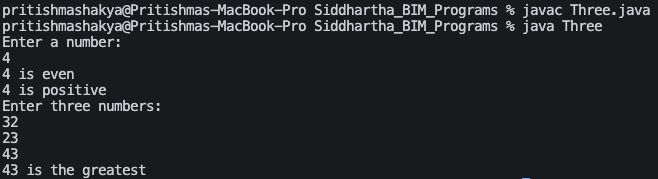
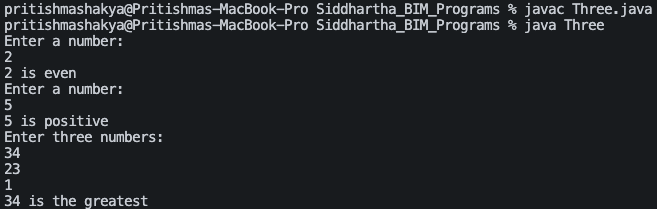
Update

Changed region(s): [[0.0, 0.0, 1.0, 1.0], [0.7915, 0.9777, 0.8219, 1.0]]

diff --git a/BIM(2nd Sem)/Java/Lab_Report_2/Siddhartha_BIM_Programs/Seven.java b/BIM(2nd Sem)/Java/Lab_Report_2/Siddhartha_BIM_Programs/Seven.java
@@ -1,0 +1,32 @@
+// WAP to calculate sum, multiplication, division, subtraction of two number based on the user choice. 
+
+import java.util.Scanner;
+
+public class Seven {
+    public static void main(String[] args) {
+        Scanner sc = new Scanner(System.in);
+        System.out.println("1. Sum\n2. Multiplication\n3. Division\n4.Subtraction");
+        System.out.println("Which operation do you want to perform?[1-4]: ");
+        int choice = sc.nextInt();
+        System.out.println("Enter two numbers: ");
+        int n1 = sc.nextInt();
+        int n2 = sc.nextInt();
+        switch (choice) {
+            case 1:
+                System.out.println("Sum: " + (n1 + n2));
+                break;
+            case 2:
+                System.out.println("Multiplication: " + (n1 * n2));
+                break;
+            case 3:
+                System.out.println("Division: " + ((double) n1 / n2));
+                break;
+            case 4:
+                System.out.println("Subtraction: " + (n1 - n2));
+                break;
+            default:
+                System.out.println("Invalid operation");
+        }
+        sc.close();
+    }
+}

diff --git a/BIM(2nd Sem)/Java/Lab_Report_2/Siddhartha_BIM_Programs/Six.java b/BIM(2nd Sem)/Java/Lab_Report_2/Siddhartha_BIM_Programs/Six.java
@@ -1,0 +1,38 @@
+/* WAP that ask student to enter his/her marks for 5 subject and print the grade obtained
+    
+    a) 80-100 --> grade A
+    b) 60-79 --> grade B
+    c) 40-59 --> grade C
+    d) Below 40 --> grade F
+
+*/
+
+import java.util.Scanner;
+
+public class Six {
+    public static void main(String[] args) {
+        Scanner sc = new Scanner(System.in);
+        int subjects = 5;
+        double totalMarks = 0;
+        System.out.println("Enter marks in five subjects: ");
+        for (int i = 0; i < 5; i++) {
+            int mark = sc.nextInt();
+            totalMarks += mark;
+        }
+        char grade = 'A';
+        double average = totalMarks / subjects;
+        if (average > 100) {
+            System.out.println("Invalid");
+        } else if (average >= 80 && average <= 100) {
+            grade = 'A';
+        } else if (average >= 60) {
+            grade = 'B';
+        } else if (average >= 40) {
+            grade = 'C';
+        } else {
+            grade = 'F';
+        }
+        System.out.println("Grade: " + grade);
+        sc.close();
+    }
+}

diff --git a/BIM(2nd Sem)/Java/Lab_Report_2/Siddhartha_BIM_Programs/Eight.java b/BIM(2nd Sem)/Java/Lab_Report_2/Siddhartha_BIM_Programs/Eight.java
@@ -1,0 +1,28 @@
+/* WAP to read annual salary of an employee and calculate the tax and print the actual amount received by the employee
+    
+    a) Salary upto 100000 -> 1%
+    b) Salary above 100000 and below 500000 -> 5%
+    c) Salary above 500000 -> 10%
+
+*/
+
+import java.util.Scanner;
+
+public class Eight {
+    public static void main(String[] args) {
+        Scanner sc = new Scanner(System.in);
+        System.out.println("Enter annual salary: ");
+        int salary = sc.nextInt();
+        double tax = 0;
+        if (salary > 500000) {
+            tax = 0.1 * salary;
+        } else if (salary > 100000) {
+            tax = 0.05 * salary;
+        } else {
+            tax = 0.01 * salary;
+        }
+        double actualSalary = salary - tax;
+        System.out.println("Actual salary: " + actualSalary);
+        sc.close();
+    }
+}

diff --git a/BIM(2nd Sem)/Java/Lab_Report_2/Siddhartha_BIM_Programs/Four.java b/BIM(2nd Sem)/Java/Lab_Report_2/Siddhartha_BIM_Programs/Four.java
@@ -20,15 +20,17 @@ public class Four {
         }
         double percentage = (double) totalMarks / 500 * 100;
         System.out.println("Percentage: " + percentage);
+        String division = " ";
         if (percentage >= 80 && percentage <= 100) {
-            System.out.println("Division: Distinction");
+            division = "Distinction";
         } else if (percentage >= 60) {
-            System.out.println("Division: First Division");
+            division = "First Division";
         } else if (percentage >= 40) {
-            System.out.println("Division: Second Division");
+            division = "Second Division";
         } else {
-            System.out.println("Fail");
+            division = "Fail";
         }
+        System.out.println("Division: " + division);
         sc.close();
     }
 }

diff --git a/BIM(2nd Sem)/Java/Lab_Report_2/Siddhartha_BIM_Programs/Three.java b/BIM(2nd Sem)/Java/Lab_Report_2/Siddhartha_BIM_Programs/Three.java
@@ -18,6 +18,8 @@ public class Three {
         String result = (n1 % 2 == 0) ? (n1 + " is even") : (n1 + " is odd");
         System.out.println(result);
         // Check if negative or positive
+        System.out.println("Enter a number: ");
+        n1 = sc.nextInt();
         result = (n1 > 0) ? (n1 + " is positive") : (n1 + " is negative");
         System.out.println(result);
         // Find the greatest among three
